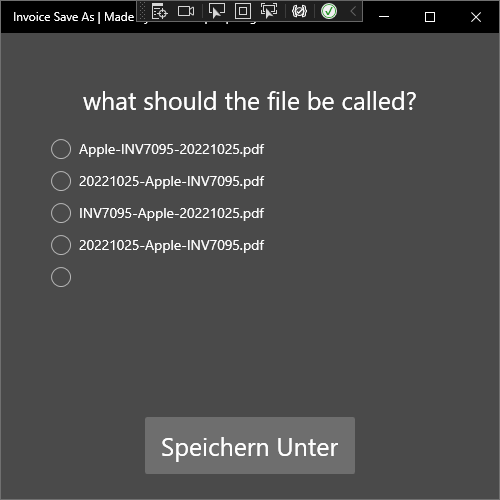
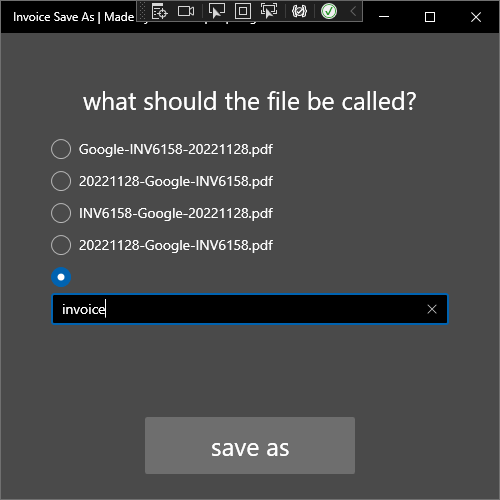
edit image

diff --git a/Windows/InvoiceSaveAsWindow.xaml b/Windows/InvoiceSaveAsWindow.xaml
@@ -21,6 +21,6 @@
             <RadioButton x:Name="Rb_Custom" Checked="Rb_Vers_Click"/>
             <TextBox x:Name="Tb_CustomName"/>
         </StackPanel>
-        <Button x:Name="Bttn_SaveAs" Content="Speichern Unter" HorizontalAlignment="Center" VerticalAlignment="Bottom" Foreground="White" Height="57" Width="210" Margin="0,0,0,25" FontSize="25" Click="Bttn_SaveAs_Click"/>
+        <Button x:Name="Bttn_SaveAs" Content="{DynamicResource saveAs}" HorizontalAlignment="Center" VerticalAlignment="Bottom" Foreground="White" Height="57" Width="210" Margin="0,0,0,25" FontSize="25" Click="Bttn_SaveAs_Click"/>
     </Grid>
 </Window>
